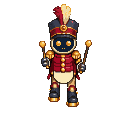
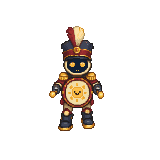
Show status stacks as a small xN and redraw the drummer's south walk
Stack counts beside a status icon now read as a small outlined "×N"
instead of a bare number on a box. The drummer's south walk was
regenerated so the drum stays visible, and its south still uses the same
drawing.

Claude-Session: https://claude.ai/code/session_013zTJ8zeUY4Et2JZtzqmSzm

Changed region(s): [[0.2812, 0.0312, 0.7188, 0.8438]]

diff --git a/src/render/canvas.js b/src/render/canvas.js
@@ -9,7 +9,7 @@ import { ghostFor } from './depth-mask.js';
 export const STATUS_ICONS = Object.fromEntries(['burn', 'chill', 'frozen', 'shock', 'windPressure'].map(id => [id, `/art/ui/status-icons/${id}.png`]));
 // Bosses are drawn larger than their sheets so they tower over the room's other bodies.
 const NAME_SIZE = 8, NAME_GAP = 3, ACTION_GOLD = '#ffd257', BOSS_SPRITE_SCALE = 1.3, ENEMY_ARROW = '#e0564c', SHAKE_MS = 150, HURT_EDGE_MS = 180, JOLT_PX = 1.5, NUMBER_SIZE = 10, CRIT_NUMBER_SIZE = 12;
-const COLUMN_SPACING_UNITS = 1.4, BADGE_SIZE = 12, BADGE_GAP = 1, COUNT_WIDTH = 7, FROZEN_LOOK = 'saturate(0.2) brightness(1.4)';
+const COLUMN_SPACING_UNITS = 1.4, BADGE_SIZE = 12, BADGE_GAP = 1, COUNT_WIDTH = 9, COUNT_SIZE = 6, FROZEN_LOOK = 'saturate(0.2) brightness(1.4)';
 const TAU = Math.PI * 2, SCREEN_UNITS = VIEW_UNITS, TELL_BLINK_SECONDS = 0.1, TELL_BLINKS = 3;
 // F2's clips stand taller than the townsfolk; this brings them to the same height everywhere.
 const PLAYER_SCALE = 0.88, EYES_OPEN_SHARE = 0.5;
@@ -75,7 +75,8 @@ export class CanvasRenderer {
     for (const badge of badges) {
       const image = this.mapImages?.get(STATUS_ICONS[badge.id]);
       if (image) c.drawImage(image, x, y, BADGE_SIZE, BADGE_SIZE);
-      if (badge.count > 1) { this.rect(x + BADGE_SIZE, y + 3, COUNT_WIDTH - 1, 9, '#2b3345'); this.text(String(badge.count), x + BADGE_SIZE + 3, y + 11, '#fff4d6', 8); }
+      // Stacks read as a small ×N beside the icon, outlined so it stays legible over any floor.
+      if (badge.count > 1) { c.font = `700 ${COUNT_SIZE}px "Malgun Gothic", sans-serif`; c.textAlign = 'left'; c.lineWidth = 2; c.strokeStyle = '#2b3345'; c.strokeText(`×${badge.count}`, x + BADGE_SIZE, y + BADGE_SIZE - 1); c.fillStyle = '#fff4d6'; c.fillText(`×${badge.count}`, x + BADGE_SIZE, y + BADGE_SIZE - 1); }
       x += width(badge);
     }
   }

diff --git a/README.md b/README.md
@@ -88,6 +88,7 @@ test/                                 자동 테스트
 
 ### 2026-11-03
 
+- 상태이상 중첩 수를 아이콘 옆 작은 `×N` 글씨(테두리 포함)로 표시. 북치기 인형 남쪽 걷기를 다시 만들어 북이 보이게 하고, 남쪽 서기 그림도 맞춤.
 - 새 몹 5종 추가(PixelLab 애니메이션 포함). 오르골 포탑: 제자리에서 탄 8발을 3번 나선으로 뿌림. 깜짝 상자: 숨어 있다가 가까이 오면 튀어나와 주변을 침. 팽이 병정: 1.6초 동안 돌며 돌진. 북치기 인형: 북을 치면 주변 몹이 빨라지고 단단해짐(직접 피해 없음). 태엽 창병: 길게 찌른 뒤 한 번 더 찌름. 3~12구간 웨이브의 일부 쥐·경비를 새 몹으로 교체. 렌치로 공격하는 동안(휘두름과 후딜 포함) 움직일 수 없게 변경. 봇은 렌치 사거리 안에서만, 0.6초 안에 공격할 적이 없을 때만 휘두르도록 수정. 웨이브 몹 피해 42%→90%, 호두까기 피해 13→12, 브라스 피해 13→12, 10·11·12구간 방 세기 0.76/0.8/0.8→0.74/0.77/0.76, 12구간 둘째 웨이브 호두까기 1마리를 경비로. 봇 기준(시드 10개) 속성 2개 + 주력 4개 8단계 7/10 완주, 6단계 5/10, 렌치만은 4~9구간.
 
 ### 2026-11-02
